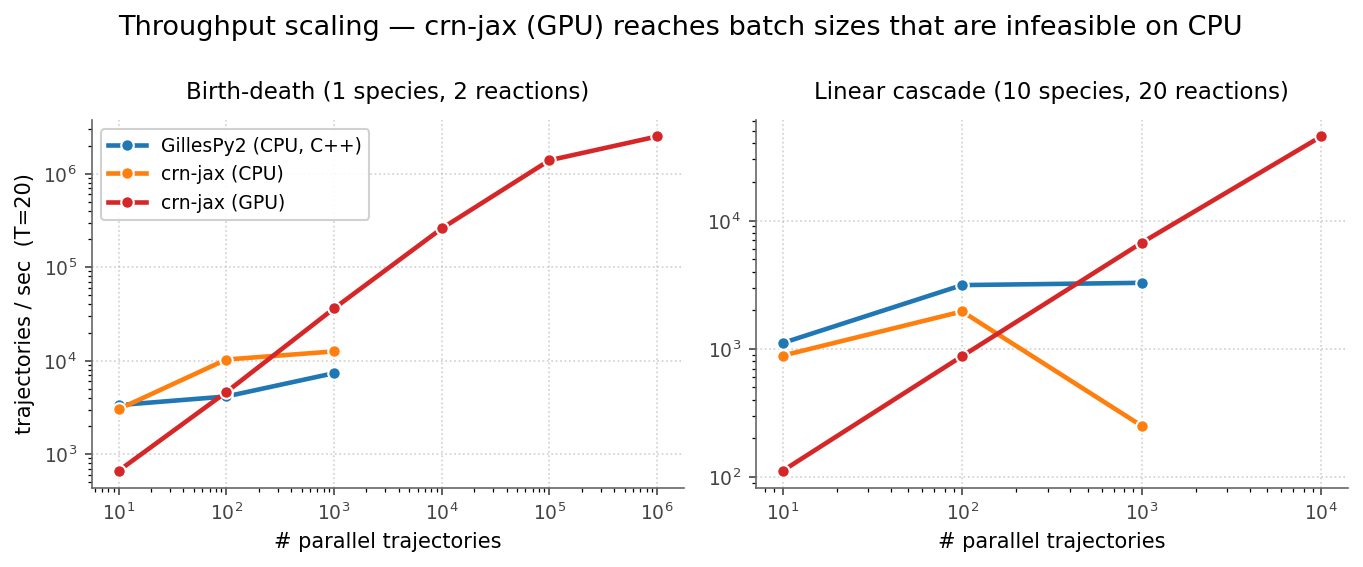
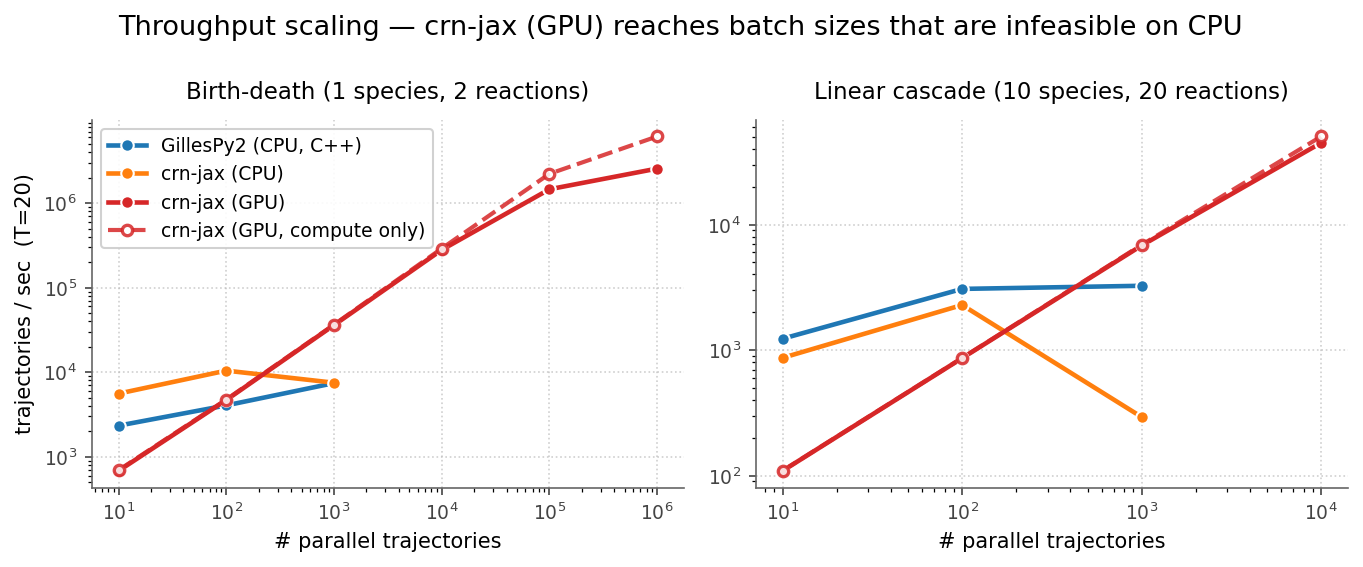
remove redundant propensity calculation

diff --git a/src/crn_jax/gillespie.py b/src/crn_jax/gillespie.py
@@ -148,6 +148,12 @@ def simulate_until(
         pending_reaction_time = jnp.where(input_changed, jnp.array(jnp.inf), pending_reaction_time)
 
     # Sample an initial reaction time if we don't have one carried over.
+    # ``initial_propensities`` are also used as the pre-reaction propensities
+    # for the first loop iteration, then threaded through the carry so each
+    # subsequent iteration does one propensity evaluation (post-reaction)
+    # instead of two. This assumes propensities depend only on the mutable
+    # state fields (typically state.x), not on state.time — the standard
+    # assumption for the Gillespie direct method on autonomous CRNs.
     initial_time = get_time_fn(initial_state)
     key, key_init = jax.random.split(key)
     needs_sample = jnp.isinf(pending_reaction_time)
@@ -156,32 +162,32 @@ def simulate_until(
     next_reaction_time = jnp.where(needs_sample, initial_time + sampled_tau, pending_reaction_time)
 
     def cond_fn(carry):
-        state, next_rxn_time, step, key = carry
+        state, next_rxn_time, propensities, step, key = carry
         return (next_rxn_time < target_time) & (step < max_steps)
 
     def body_fn(carry):
-        state, next_rxn_time, step, key = carry
+        state, next_rxn_time, propensities, step, key = carry
         key, key_reaction, key_time = jax.random.split(key, 3)
 
         # Advance time to when the reaction occurs.
         state = update_time_fn(state, next_rxn_time)
 
-        # Sample which reaction (using pre-reaction propensities) and apply it.
-        propensities = compute_propensities_fn(state, input)
+        # Sample which reaction using the carried pre-reaction propensities.
         reaction_idx = sample_reaction(key_reaction, propensities)
         state = apply_reaction_fn(state, reaction_idx)
 
-        # Post-reaction propensities have changed; sample the next tau.
+        # Compute post-reaction propensities once; they are both the sampling
+        # distribution for tau and the carry for the next iteration.
         new_propensities = compute_propensities_fn(state, input)
         tau = sample_tau(key_time, new_propensities)
         new_next_rxn_time = get_time_fn(state) + tau
 
-        return state, new_next_rxn_time, step + 1, key
+        return state, new_next_rxn_time, new_propensities, step + 1, key
 
-    final_state, final_next_rxn_time, _, _ = jax.lax.while_loop(
+    final_state, final_next_rxn_time, _, _, _ = jax.lax.while_loop(
         cond_fn,
         body_fn,
-        (initial_state, next_reaction_time, jnp.array(0), key),
+        (initial_state, next_reaction_time, initial_propensities, jnp.array(0), key),
     )
 
     return final_state, final_next_rxn_time

diff --git a/benchmarks/plot_results.py b/benchmarks/plot_results.py
@@ -354,6 +354,11 @@ def plot_throughput_scaling(rows_by_series):
     Shows that GillesPy2 saturates near a per-trajectory cost while
     crn-jax GPU keeps climbing until vmap saturates the device or memory runs
     out (≥1M trajectories on the simpler models).
+
+    For ``(crn_jax, gpu)`` we also draw a dashed "compute only" line using
+    ``traj_per_s_compute`` (ends at ``block_until_ready``, excludes the D→H
+    copy). The gap between the solid and dashed lines at large N is the
+    device→host transfer tax on the total metric.
     """
     series_order = [("gillespy2", "cpu"), ("crn_jax", "cpu"), ("crn_jax", "gpu")]
 
@@ -385,6 +390,23 @@ def plot_throughput_scaling(rows_by_series):
                 markeredgewidth=1.0,
                 zorder=3,
             )
+            if s == ("crn_jax", "gpu"):
+                tps_compute = [r.get("traj_per_s_compute") for r in rows]
+                if all(v is not None for v in tps_compute):
+                    ax.plot(
+                        ns,
+                        tps_compute,
+                        "o--",
+                        color=COLORS[s],
+                        label="crn-jax (GPU, compute only)",
+                        lw=2.0,
+                        markersize=5,
+                        markerfacecolor="white",
+                        markeredgecolor=COLORS[s],
+                        markeredgewidth=1.6,
+                        alpha=0.85,
+                        zorder=3,
+                    )
         ax.set_xscale("log")
         ax.set_yscale("log")
         ax.set_title(MODEL_TITLES[model], fontsize=11, pad=10)

diff --git a/README.md b/README.md
@@ -32,10 +32,15 @@ Chemical reaction networks in JAX — a tiny, GPU-optimized Gillespie / Stochast
 pip install crn-jax
 
 # with NVIDIA GPU support:
-pip install "crn-jax[cuda]"
+pip install crn-jax "jax[cuda12]"
 
-# for local development:
-git clone https://github.com/robinhenry/crn-jax && cd crn-jax && pip install -e ".[test,examples]"
+# with plotting helpers:
+pip install "crn-jax[examples]"
+
+# for local development (uses Poetry):
+git clone https://github.com/robinhenry/crn-jax && cd crn-jax
+poetry install                    # main deps + dev tools
+poetry install --with gpu         # add jax[cuda12] on an NVIDIA host
 ```
 
 `crn-jax` depends on `jax` / `jaxlib` only.
